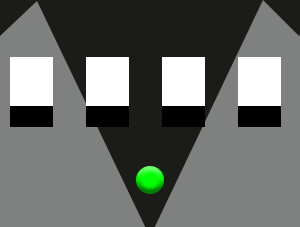
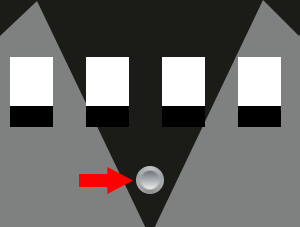
updates

Changed region(s): [[0.24, 0.7093, 0.57, 0.8634]]

diff --git a/application/views/playerviews/pi2.php b/application/views/playerviews/pi2.php
@@ -263,14 +263,14 @@
                         <div class="third" ng-class="{'half': currentPuzzles[14] == 1}">Ajustar ingredientes a su valor correcto
                             <img src="/assets/images/diagram1.png" width="100%" />
                         </div>
-                        <div class="third">Mezclar ingredientes<br/>(botón verde)
+                        <div class="third">Mezclar ingredientes<br/>(botón gris)
                             <img src="/assets/images/diagram2.png" width="100%" />
                         </div>
                         <div class="third">
                             Abrir valvulas de paso al tanque
                             <img src="/assets/images/diagram3.png" width="100%" />
                         </div>
-                        <div>Recuerde esperar a que termine la mezcla antes de abrir las valvulas redondas</div>
+                        <div>Antes de presionar los botones redondos, observe la secuencia de luces</div>
                     </div>
                     <div ng-if="combustible >= 18">
                         Acceso al Centro de Mando autorizado
